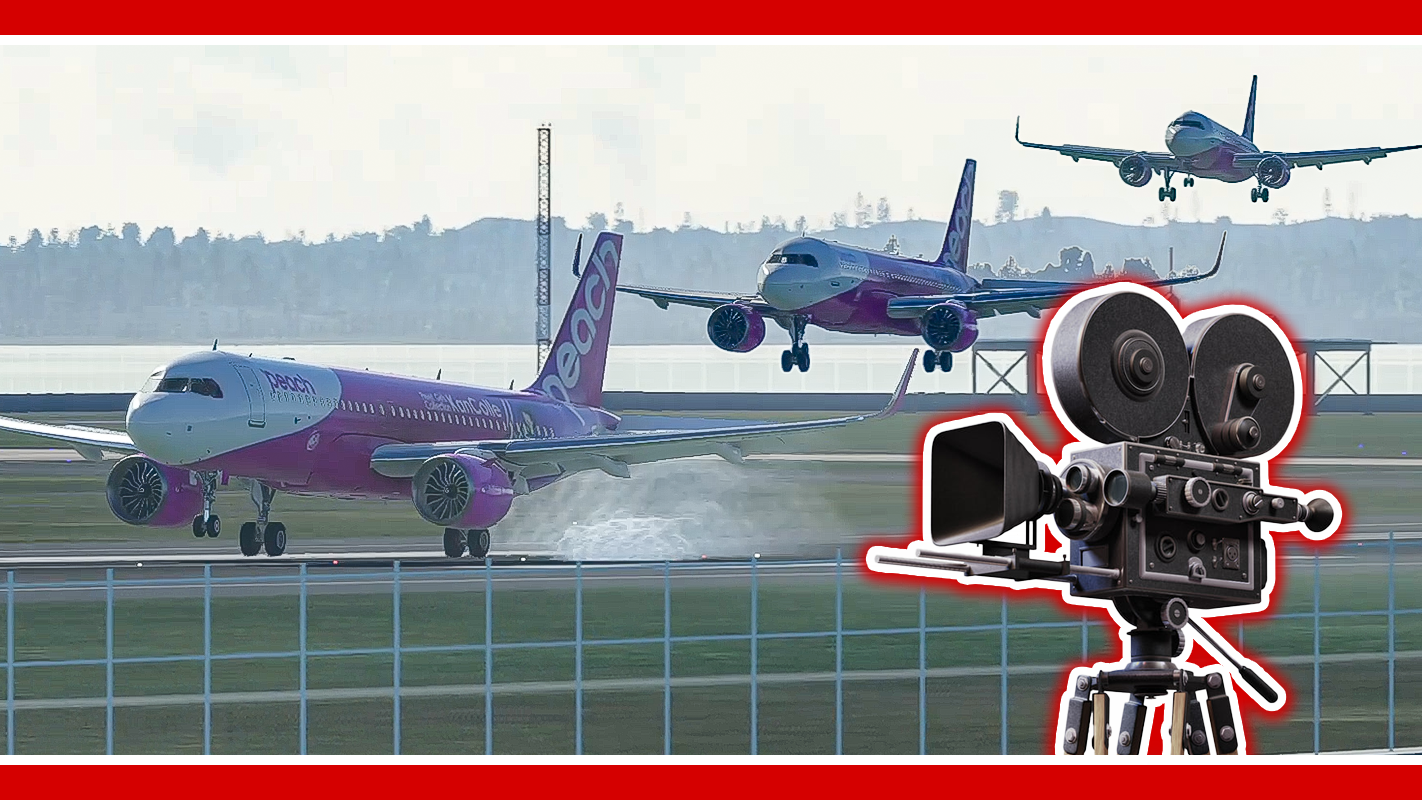
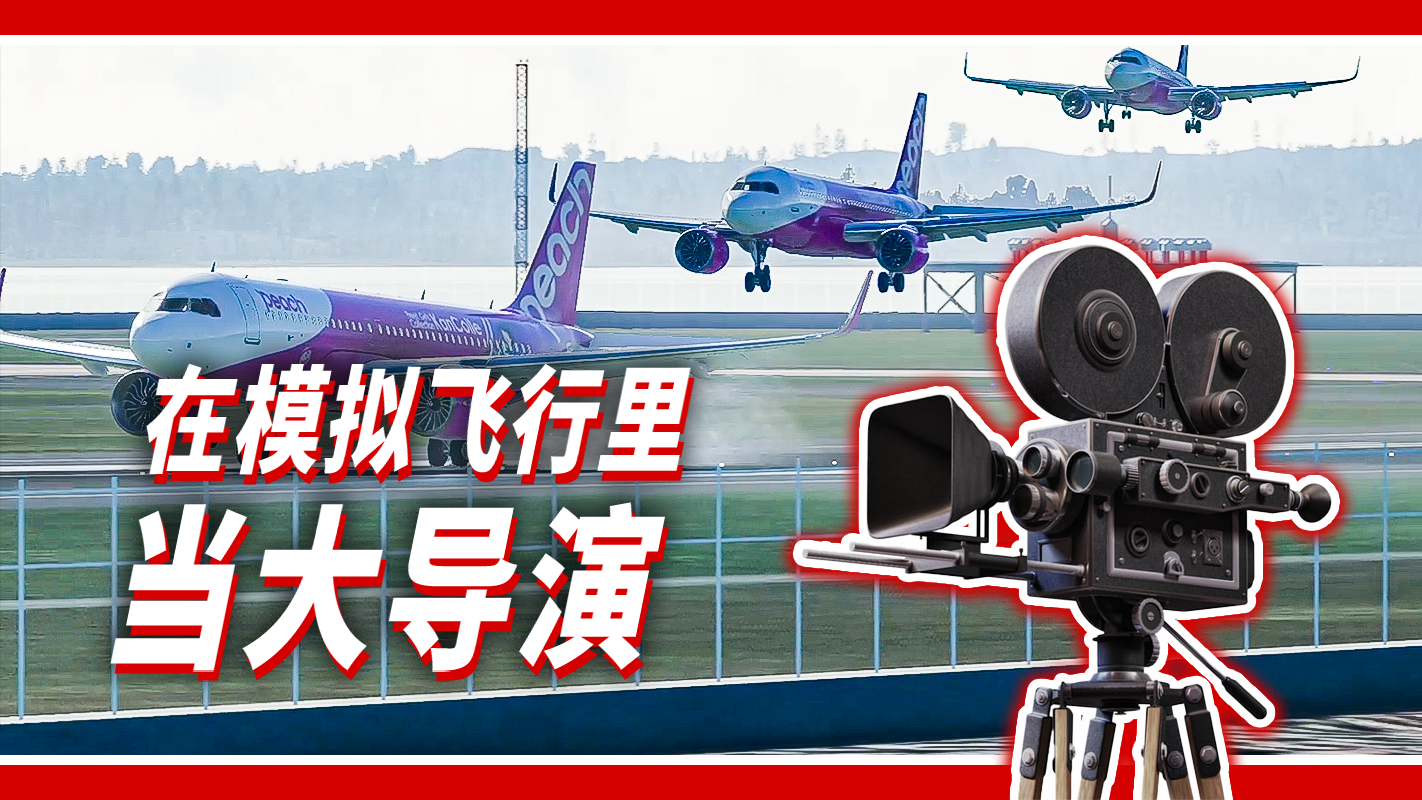
update

diff --git a/data/videos.ts b/data/videos.ts
@@ -3,7 +3,7 @@ import { VideoItem } from '@types';
 const videos: VideoItem[] = [
     {
         name: {
-            zh: '如何使用追踪视角',
+            zh: '小技巧: 视角锁定模式',
         },
         des: {
             zh: '全新的《微软模拟飞行》中有着非常强大的视角控制能力，但预设的视角并不多，也让很多玩家产生了游戏在这方面能力欠缺的错觉。看完本期视频，大家应该就能了解如何控制追踪视角了！',
